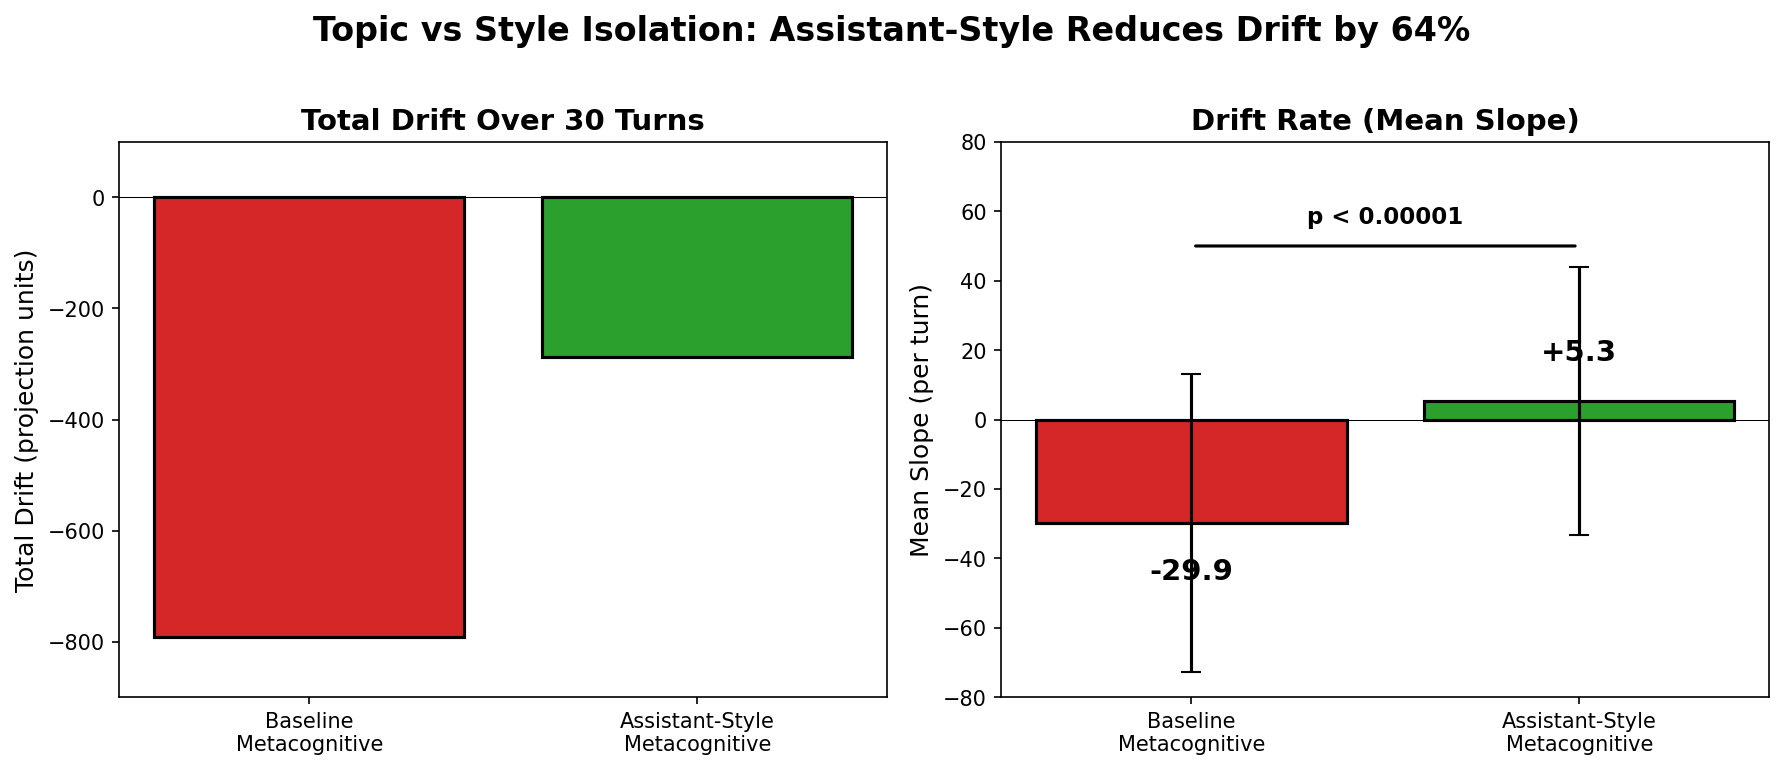
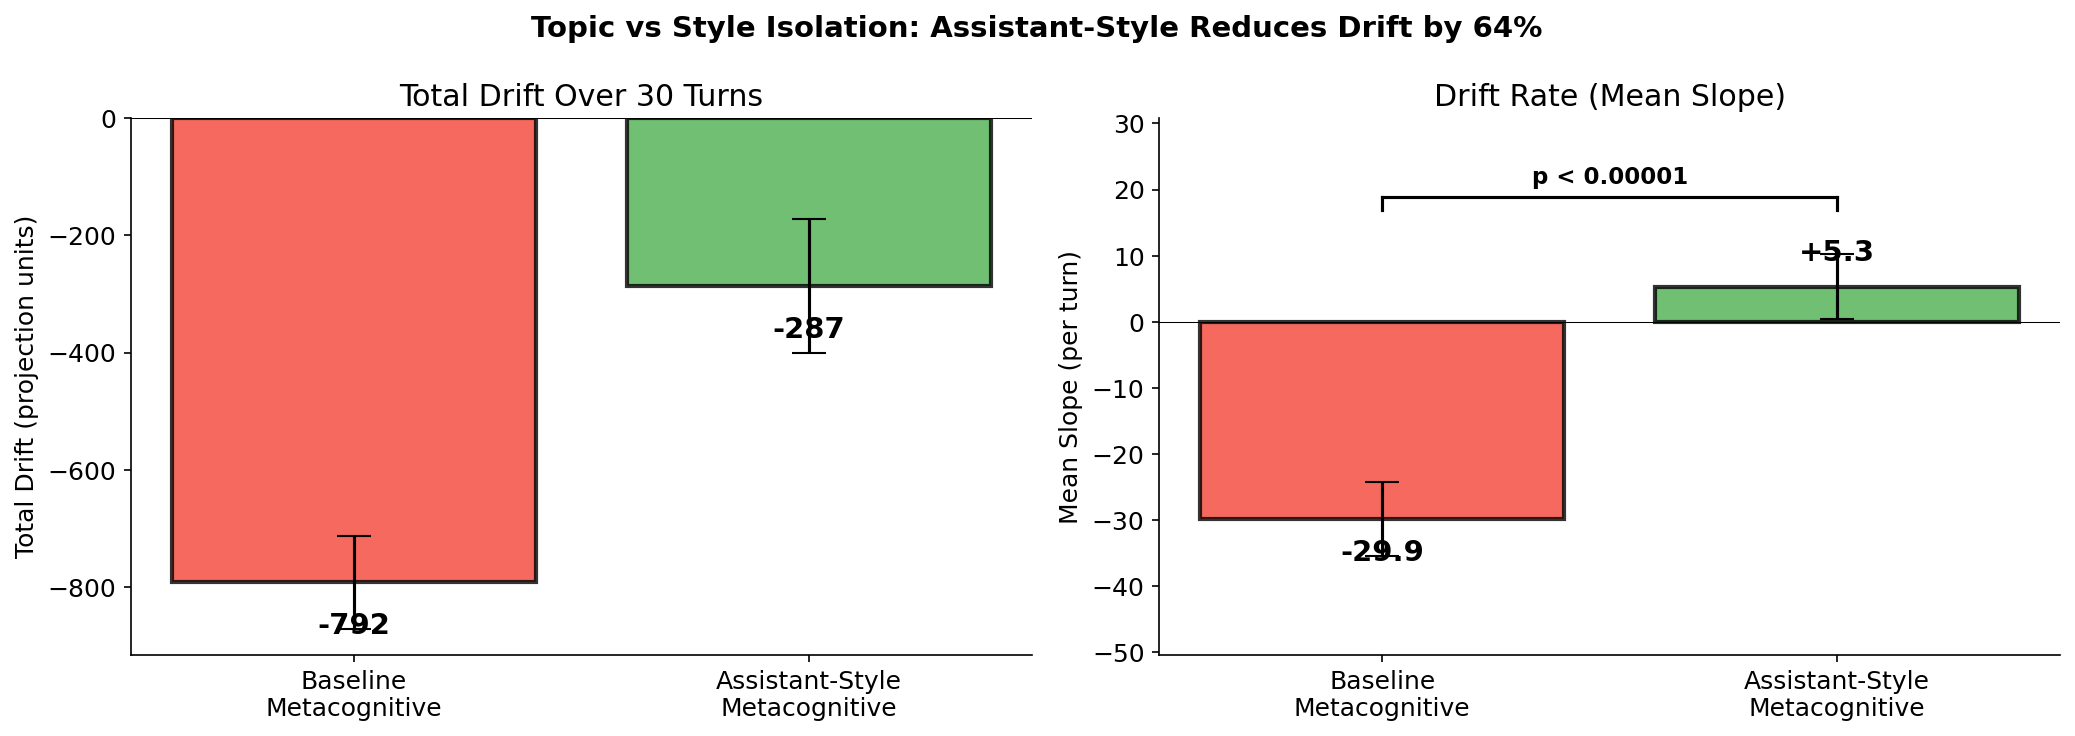
Refine Charles meeting doc and extract supporting materials
- Polish meeting document for sharing: cleaner structure, parallel
  direction formats, strategic framing with Lindsey positioning
- Extract Q&A prep and application logistics to separate docs
- Add compare_style_conditions.py for SEM-based style comparison graph
- Regenerate style_comparison.png with SEM error bars (not SD)

diff --git a/experiments/metacognition-persona-drift/compare_style_conditions.py b/experiments/metacognition-persona-drift/compare_style_conditions.py
@@ -1,0 +1,155 @@
+#!/usr/bin/env python3
+"""
+Compare baseline metacognitive vs assistant-style metacognitive conditions.
+
+Generates style_comparison.png with SEM error bars (not SD).
+"""
+
+import json
+import numpy as np
+import matplotlib.pyplot as plt
+from pathlib import Path
+from scipy import stats
+
+# Paths
+BASE_DIR = Path(__file__).parent.parent.parent
+BASELINE_DIR = BASE_DIR / "experiments/metacognition-persona-drift/data/transcripts/scaled-n60/metacognitive"
+ASSISTANT_STYLE_DIR = BASE_DIR / "data/transcripts/assistant-style-meta/metacognitive"
+OUTPUT_DIR = BASE_DIR / "outputs/assistant-style-meta"
+
+plt.rcParams.update({
+    "figure.figsize": (14, 5),
+    "axes.spines.top": False,
+    "axes.spines.right": False,
+    "font.size": 12,
+})
+
+
+def load_slopes(transcript_dir: Path) -> list[float]:
+    """Load transcripts and compute per-conversation slope."""
+    slopes = []
+    for p in sorted(transcript_dir.glob("*.json")):
+        with open(p) as f:
+            t = json.load(f)
+
+        # Get projections
+        projs = t.get("projections", t.get("target_projections", []))
+        if not projs or len(projs) < 2:
+            continue
+
+        values = [p["projection"] for p in projs]
+        turns = np.arange(len(values))
+
+        # Fit linear slope
+        slope, _, _, _, _ = stats.linregress(turns, values)
+        slopes.append(slope)
+
+    return slopes
+
+
+def main():
+    OUTPUT_DIR.mkdir(parents=True, exist_ok=True)
+
+    # Load data
+    baseline_slopes = load_slopes(BASELINE_DIR)
+    assistant_slopes = load_slopes(ASSISTANT_STYLE_DIR)
+
+    print(f"Baseline N: {len(baseline_slopes)}")
+    print(f"Assistant-style N: {len(assistant_slopes)}")
+
+    # Compute statistics
+    baseline_mean = np.mean(baseline_slopes)
+    baseline_std = np.std(baseline_slopes)
+    baseline_sem = baseline_std / np.sqrt(len(baseline_slopes))
+
+    assistant_mean = np.mean(assistant_slopes)
+    assistant_std = np.std(assistant_slopes)
+    assistant_sem = assistant_std / np.sqrt(len(assistant_slopes))
+
+    # T-test
+    t_stat, p_value = stats.ttest_ind(baseline_slopes, assistant_slopes)
+
+    print(f"\nBaseline: {baseline_mean:.2f} ± {baseline_std:.2f} (SD), SEM={baseline_sem:.2f}")
+    print(f"Assistant: {assistant_mean:.2f} ± {assistant_std:.2f} (SD), SEM={assistant_sem:.2f}")
+    print(f"t={t_stat:.2f}, p={p_value:.2e}")
+
+    # Compute total drift too
+    def load_total_drift(transcript_dir: Path) -> list[float]:
+        drifts = []
+        for p in sorted(transcript_dir.glob("*.json")):
+            with open(p) as f:
+                t = json.load(f)
+            projs = t.get("projections", t.get("target_projections", []))
+            if not projs or len(projs) < 2:
+                continue
+            values = [p["projection"] for p in projs]
+            drifts.append(values[-1] - values[0])
+        return drifts
+
+    baseline_drifts = load_total_drift(BASELINE_DIR)
+    assistant_drifts = load_total_drift(ASSISTANT_STYLE_DIR)
+
+    # Plot
+    fig, (ax1, ax2) = plt.subplots(1, 2, figsize=(14, 5))
+
+    conditions = ["Baseline\nMetacognitive", "Assistant-Style\nMetacognitive"]
+    colors = ["#F44336", "#4CAF50"]  # red, green
+
+    # Left panel: Total drift
+    drift_means = [np.mean(baseline_drifts), np.mean(assistant_drifts)]
+    drift_sems = [
+        np.std(baseline_drifts) / np.sqrt(len(baseline_drifts)),
+        np.std(assistant_drifts) / np.sqrt(len(assistant_drifts))
+    ]
+
+    bars1 = ax1.bar(conditions, drift_means, yerr=drift_sems,
+                    color=colors, alpha=0.8, capsize=8, edgecolor='black', linewidth=2)
+    ax1.axhline(0, color='black', linewidth=0.5)
+    ax1.set_ylabel("Total Drift (projection units)")
+    ax1.set_title("Total Drift Over 30 Turns")
+
+    # Right panel: Mean slope (drift rate)
+    slope_means = [baseline_mean, assistant_mean]
+    slope_sems = [baseline_sem, assistant_sem]
+
+    bars2 = ax2.bar(conditions, slope_means, yerr=slope_sems,
+                    color=colors, alpha=0.8, capsize=8, edgecolor='black', linewidth=2)
+    ax2.axhline(0, color='black', linewidth=0.5)
+    ax2.set_ylabel("Mean Slope (per turn)")
+    ax2.set_title("Drift Rate (Mean Slope)")
+
+    # Add value labels
+    for bar, val in zip(bars1, drift_means):
+        ax1.text(bar.get_x() + bar.get_width()/2, val - 50, f"{val:.0f}",
+                ha='center', va='top', fontsize=14, fontweight='bold')
+
+    for bar, val in zip(bars2, slope_means):
+        y_pos = val - 3 if val < 0 else val + 3
+        va = 'top' if val < 0 else 'bottom'
+        ax2.text(bar.get_x() + bar.get_width()/2, y_pos, f"{val:+.1f}",
+                ha='center', va=va, fontsize=14, fontweight='bold')
+
+    # Add significance bar and p-value
+    y_bar = max(slope_means) + max(slope_sems) + 8
+    ax2.plot([0, 1], [y_bar, y_bar], 'k-', linewidth=1.5)
+    ax2.plot([0, 0], [y_bar-2, y_bar], 'k-', linewidth=1.5)
+    ax2.plot([1, 1], [y_bar-2, y_bar], 'k-', linewidth=1.5)
+
+    # Put p-value above the bar
+    p_str = f"p < 0.00001" if p_value < 0.00001 else f"p = {p_value:.5f}"
+    ax2.text(0.5, y_bar + 2, p_str, ha='center', fontsize=11, fontweight='bold')
+
+    # Extend y-axis to make room
+    ax2.set_ylim(min(slope_means) - max(slope_sems) - 15, y_bar + 12)
+
+    fig.suptitle("Topic vs Style Isolation: Assistant-Style Reduces Drift by 64%",
+                 fontsize=14, fontweight='bold')
+
+    plt.tight_layout()
+    fig.savefig(OUTPUT_DIR / "style_comparison.png", dpi=150, bbox_inches='tight')
+    print(f"\nSaved to {OUTPUT_DIR / 'style_comparison.png'}")
+    plt.close(fig)
+
+
+if __name__ == "__main__":
+    main()
